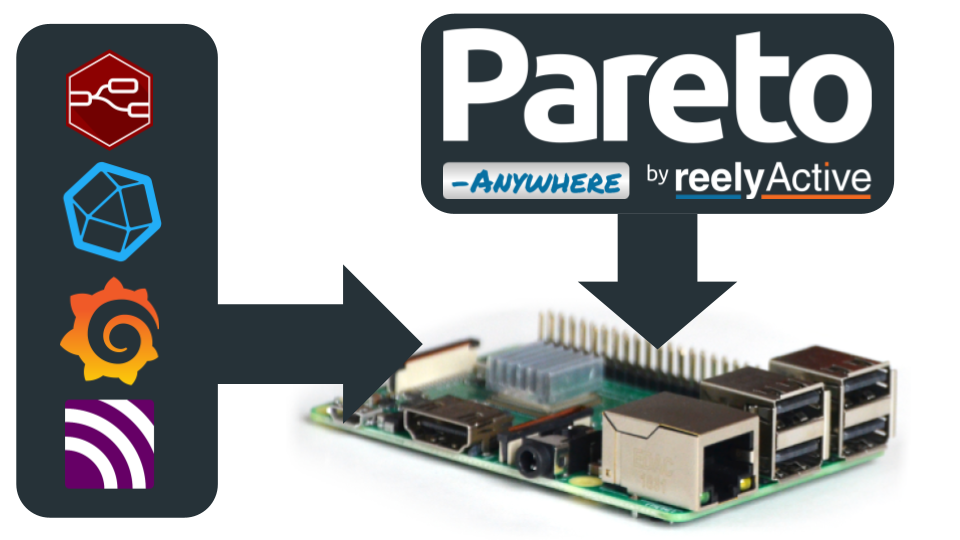
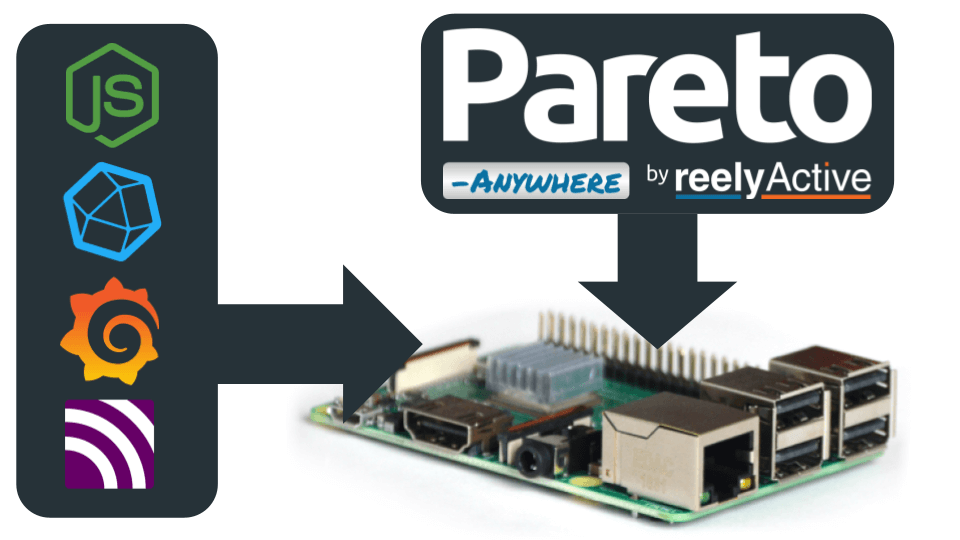
feat: nvm to install nodejs and npm, removing node-red

Changed region(s): [[0.0625, 0.0593, 0.1875, 0.2963]]

diff --git a/diy/pi-iot-stack/index.html b/diy/pi-iot-stack/index.html
@@ -262,8 +262,8 @@
           <div class="card hover-shadow mt-5 bg-body-secondary border-0">
             <div class="card-body pt-4">
               <h2 id="step02" class="card-title my-2">
-                <img src="./images/node-red-hexagon-logo.png" width="60" height="60" alt="Node-Red Logo"/>
-                Install node-red, nodejs, and npm &nbsp;
+                <img src="./images/node-js.svg" width="60" height="60" alt="node.js Logo"/>
+                Install nodejs and npm using nvm &nbsp;
                 <a href="#step02" class="badge bg-primary"> Step 2 of 6 </a>
               </h2>
               <p class="lead"> 
@@ -271,66 +271,62 @@
               </p>
               <hr>
               <dl class="row">
-                <dt class="col-sm-3"> What is node-red? </dt>
-                <dd class="col-sm-9">
-                  <em>node-red</em> is a flow-based development tool for visual programming, useful for creating IoT applications based on events sent by pareto-anywhere. 
-                </dd>                                
-                <dt class="col-sm-3"> Are all of these required? </dt>
-                <dd class="col-sm-9"> nodejs and npm are required; node-red is optional. </dd>
+                <dt class="col-sm-3"> What is nvm? </dt>
+                <dd class="col-sm-9"> <em>nvm</em> stands for a "node version manager", and is a tool that allows you to install and manage multiple versions of nodejs and npm. </dd>                         
                 <dt class="col-sm-3"> Is this this only way to install nodejs and npm? </dt>
                 <dd class="col-sm-9"> 
                   There are several ways to install nodejs and npm, depending on your environment. At reelyActive, we like the ease of use
-                  of the node-red install script, which will guide you through the process of installing all three.
+                  of nvm, which can manage having different nodejs environments on the same machine.
                 </dd>
                 <dt class="col-sm-3">Having difficulties?</dt>
-                <dd class="col-sm-9">More information about installing node-red on a <i class="fab fa-raspberry-pi"></i> Pi can be found at <a href="https://nodered.org/docs/getting-started/raspberrypi" target="_blank">https://nodered.org/docs/getting-started/raspberrypi</a></dd>
+                <dd class="col-sm-9">
+                  More information about installing nodejs and npm on a <i class="fab fa-raspberry-pi"></i> Pi can be found at <a href="https://nodejs.org/en/download" target="_blank">https://nodejs.org/en/download</a>.
+                </dd>
             </div>
           </div>
           <br>
           <p class="lead">
-            Using the script from the node-red github repository, install <em>node-red</em>, <em>nodejs</em>, and <em>npm</em> with the following steps.
+            Using the script from the <em>nvm</em> github repository, install nvm, which will then be used to install <em>nodejs</em> and <em>npm</em> with the following steps.
           </p>
           <ol>
             <li>
               <p>
-                Initialize the <em>node-red</em> installation script with the command:
-              <kbd class="user-select-all">
-                bash <(curl -sL https://raw.githubusercontent.com/node-red/linux-installers/master/deb/update-nodejs-and-nodered)
-              </kbd>
-              </p>
-            </li>
-            <li>
-              <p>
-                The install script will prompt you for several settings. With the following exceptions, select the defaults for all of the answers.
-                <ul>
-                  <li>Don't setup user security. This can be setup later if you'd like.</li>
-                  <li>No username / password is required for node-red.</li>
-                  <li>Do not setup a passphrase.</li>
-                </ul> 
-              </p>
-            </li>
-            <li>
-              <p>
-                Once the install script is complete, enable the nodered.service with the command:
+                Download and run the <em>nvm</em> installation script with the command:
                 <kbd class="user-select-all">
-                  sudo systemctl enable nodered.service
+                  curl -o- https://raw.githubusercontent.com/nvm-sh/nvm/v0.40.1/install.sh | bash
                 </kbd>
               </p>
             </li>
             <li>
               <p>
-                Start the node-red service with the command:
-                <kbd class="user-select-all">
-                  node-red-start
-                </kbd>
-                <br>
-                (rebooting the <i class="fab fa-raspberry-pi"></i> Pi will also start the service, once enabled as above)
+                Close and reopen the terminal to make the <em>nvm</em> command available.
               </p>
             </li>
             <li>
               <p>
-                With node-red now running on the <i class="fab fa-raspberry-pi"></i> Pi, you can access the node-red editor by navigating to the <i class="fab fa-raspberry-pi"></i> Pi's IP address on port 1880 in a web browser.
-                (For example: http://pareto.local:1880)
+                Install the latest version of <em>nodejs</em> and <em>npm</em> with the command:
+                <kbd class="user-select-all">
+                  nvm install --lts
+                </kbd>
+              </p>
+            </li>
+            <p>
+              That's it. It's really that easy. 
+            </p>
+            <li>
+              <p>
+                To check which version of <em>nodejs</em> was installed, run the following command:
+                <kbd class="user-select-all">
+                  node -v
+                </kbd>
+              </p>
+            </li>
+            <li>
+              <p>
+                To check which version of <em>npm</em> was installed, run the following command:
+                <kbd class="user-select-all">
+                  npm -v
+                </kbd>
               </p>
             </li>
           </ol>
@@ -703,7 +699,7 @@
           <h2> Conclusion </h2>
           <p>
             You've taken a bare-bones <i class="fab fa-raspberry-pi"></i> Pi OS Lite image and installed software that  
-            you can now access the <i class="fab fa-raspberry-pi"></i> Pi remotely over SSH, and have installed a variety of services including <em>node-red</em>, <em>influxdb2</em>, <em>pareto-anywhere</em>, and <em>barnowl-hci</em>.
+            you can now access the <i class="fab fa-raspberry-pi"></i> Pi remotely over SSH, and have installed a variety of services including <em>influxdb2</em>, <em>pareto-anywhere</em>, and <em>barnowl-hci</em>.
           </p>
           <!----- Attribution ----->
           <div class="card hover-shadow bg-light border-0 my-5 bg-body-secondary">
